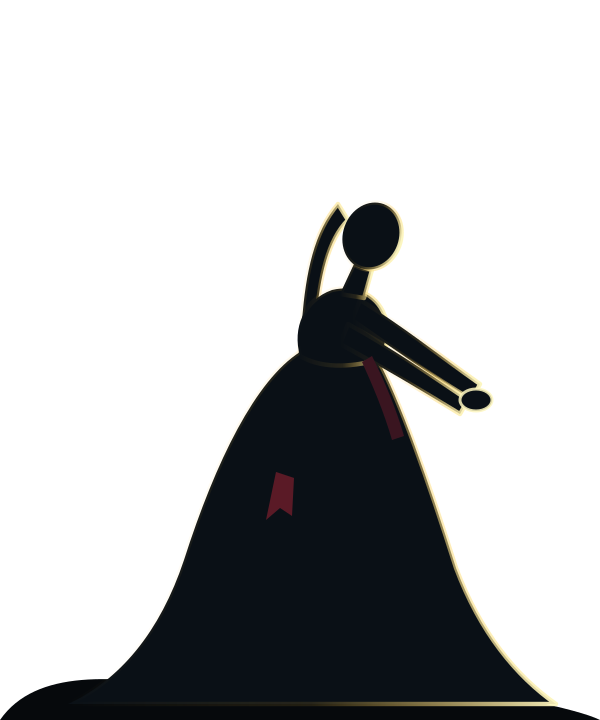
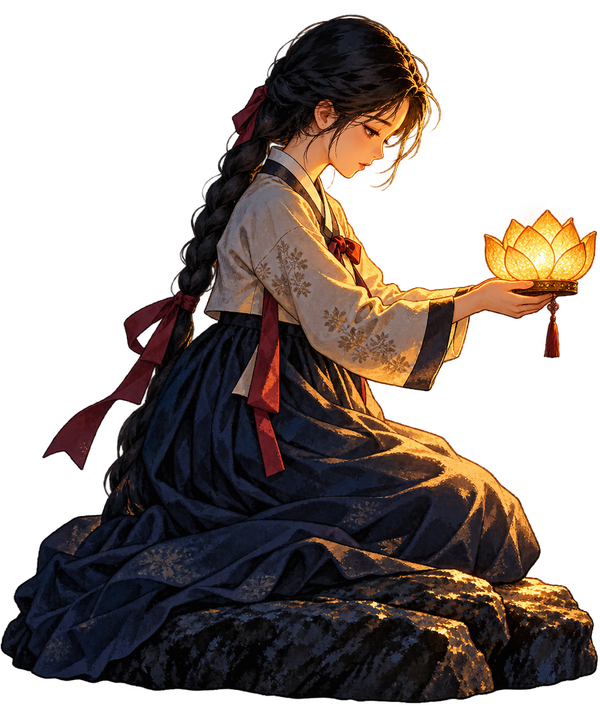
Defense: incense-ready effects and new cutscene art from Codex; boss HP 1400 -> 1800

diff --git a/prototype/defense.html b/prototype/defense.html
@@ -117,6 +117,9 @@
     .seedbar i { display: block; height: 100%; width: calc(var(--p, 0) * 100%); background: linear-gradient(90deg, var(--amber), var(--gold)); border-radius: inherit; transition: width .25s; }
     .roll.ready .seedbar i { background: linear-gradient(90deg, var(--gold), var(--wick)); box-shadow: 0 0 8px var(--gold); }
     .incense {
+      position: relative;
+      isolation: isolate;
+      overflow: visible;
       aspect-ratio: 1;
       border-radius: 999px;
       background:
@@ -129,9 +132,68 @@
       line-height: 1.2;
       text-align: center;
     }
-    .incense.full { box-shadow: 0 0 18px rgb(252 196 65 / .7); }
+    .incense.full {
+      box-shadow: 0 0 22px rgb(252 196 65 / .9);
+      animation: incense-ready-button 1.15s ease-in-out infinite alternate;
+    }
+    .incense.full::before {
+      content: '';
+      position: absolute;
+      inset: -38%;
+      z-index: 2;
+      pointer-events: none;
+      background:
+        url(/assets/incense_ready_frame.png) center / contain no-repeat,
+        url(/assets/fx_incense_ready_ring.png) center / 86% 86% no-repeat;
+      filter: drop-shadow(0 0 8px rgb(252 196 65 / .8));
+      animation: incense-ready-ring 1.8s ease-in-out infinite;
+    }
+    .incense.full::after {
+      content: '';
+      position: absolute;
+      left: -54%; right: -54%; bottom: -48%;
+      height: 230%;
+      z-index: 1;
+      pointer-events: none;
+      background: url(/assets/fx_incense_ready_sparks.png) center bottom / contain no-repeat;
+      animation: incense-ready-sparks 1.5s ease-out infinite;
+    }
+    @keyframes incense-ready-button { to { transform: scale(1.045); color: var(--wick); } }
+    @keyframes incense-ready-ring {
+      0% { opacity: .62; transform: scale(.9) rotate(-4deg); }
+      55% { opacity: 1; }
+      100% { opacity: .72; transform: scale(1.08) rotate(4deg); }
+    }
+    @keyframes incense-ready-sparks {
+      0% { opacity: 0; transform: translateY(7%) scale(.86); }
+      22%, 68% { opacity: .9; }
+      100% { opacity: 0; transform: translateY(-8%) scale(1.06); }
+    }
     .incense[aria-disabled='true'] { cursor: not-allowed; color: var(--mist); }
     .incense.full[aria-disabled='false'] { color: var(--gold); }
+    .incense-name { position: relative; z-index: 3; }
+    .incense-ready-label {
+      position: absolute;
+      left: 50%; top: -34%;
+      z-index: 4;
+      translate: -50% 0;
+      display: none;
+      width: max-content;
+      padding: .28em .62em;
+      border: 1px solid var(--gold);
+      border-radius: 999px;
+      background: rgb(4 5 6 / .92);
+      color: var(--wick);
+      font: 700 max(11px, calc(2.6 * var(--u)))/1 var(--font-title);
+      box-shadow: 0 0 12px rgb(252 196 65 / .55);
+    }
+    .incense.full .incense-ready-label { display: block; animation: incense-ready-label .8s ease-out both; }
+    @keyframes incense-ready-label { from { opacity: 0; transform: translateY(7px) scale(.88); } }
+    @media (prefers-reduced-motion: reduce) {
+      .incense.full, .incense.full::before, .incense.full::after, .incense.full .incense-ready-label { animation: none; }
+      .incense.full::before { opacity: .9; }
+      .incense.full::after { opacity: .55; }
+    }
 
     /* 물결 리본 */
     .ribbon {
@@ -290,31 +352,22 @@
       animation: kenburns 2.8s ease-out both;
     }
     @keyframes kenburns { from { transform: scale(1.18); filter: brightness(.5); } to { transform: scale(1.04); filter: brightness(.85); } }
-    /* 소녀·유등·빛을 한 묶음으로: 좌표는 소녀 그림 기준(두 손 = 폭 80%, 높이 55%) */
+    /* 소녀·유등·빛을 한 묶음으로: 새 그림 기준 유등 중심은 폭 88%, 높이 31% */
     .cut-actor {
-      position: absolute; left: 2%; bottom: 8%; height: 52%; aspect-ratio: 600 / 720;
+      position: absolute; left: -4%; bottom: 5%; height: 58%; aspect-ratio: 600 / 720;
       animation: girl 2.8s ease-out both;
     }
     @keyframes girl { from { opacity: 0; transform: translateX(-6%); } 18% { opacity: 1; transform: none; } }
     .cut-girl { width: 100%; height: 100%; max-width: none; }
     .cut-glow {
-      position: absolute; left: 80%; top: 55%; width: 140%; aspect-ratio: 1; translate: -50% -50%;
-      background: radial-gradient(circle, rgb(252 196 65 / .5), transparent 62%);
+      position: absolute; left: 88%; top: 31%; width: 48%; aspect-ratio: 1; translate: -50% -50%;
+      background:
+        url(/assets/fx_incense_ready_ring.png) center / contain no-repeat,
+        radial-gradient(circle, rgb(252 196 65 / .5), transparent 62%);
+      filter: drop-shadow(0 0 16px var(--gold));
       animation: glow 2.8s ease-in-out both;
     }
     @keyframes glow { 0% { opacity: 0; } 30%, 70% { opacity: 1; } 100% { opacity: .3; } }
-    .cut-lantern {
-      position: absolute; left: 80%; top: 55%; width: 30%; translate: -50% -62%;
-      filter: drop-shadow(0 0 14px var(--gold));
-      animation: drift 2.8s ease-in-out both;
-    }
-    /* 손을 떠나 강 한가운데로 멀어진다 */
-    @keyframes drift {
-      0%, 22% { transform: none; opacity: 0; }
-      30% { opacity: 1; transform: none; }
-      85% { transform: translate(260%, -300%) scale(.5); opacity: 1; }
-      100% { transform: translate(300%, -360%) scale(.4); opacity: 0; }
-    }
     .cut-line {
       position: absolute; left: 0; right: 0; top: 16%; z-index: 4;
       margin: 0; text-align: center;
@@ -401,7 +454,10 @@
 
     <aside class="side right">
       <div class="controls">
-        <button id="incense" class="dbtn incense" aria-disabled="true">향<br />피우기</button>
+        <button id="incense" class="dbtn incense" aria-disabled="true">
+          <span class="incense-name">향<br />피우기</span>
+          <span class="incense-ready-label" aria-hidden="true">준비 완료</span>
+        </button>
         <button id="roll" class="dbtn roll art" aria-disabled="true">
           <span class="roll-text">
             <b>주사위 굴림</b>
@@ -431,7 +487,6 @@
       <div class="cut-actor">
         <div class="cut-glow"></div>
         <img class="cut-girl" src="/assets/cut_girl.png" alt="" />
-        <img class="cut-lantern" src="/assets/d/comfort_idle1.webp" alt="" />
       </div>
       <p class="cut-line">안부를 띄웁니다</p>
       <div class="cut-flash"></div>

diff --git a/prototype/src/defense-data.ts b/prototype/src/defense-data.ts
@@ -20,7 +20,7 @@ export const CRIT = { chance: 0.15, mul: 2 };
 export const ENEMY: Record<EnemyType, { hp: number; speed: number; leak: number; seeds: number; incense: number; scale: number }> = {
   mist: { hp: 40, speed: 172, leak: 1, seeds: 4, incense: 0.08, scale: 0.62 },
   boat: { hp: 155, speed: 90, leak: 2, seeds: 9, incense: 0.08, scale: 0.62 },
-  boss: { hp: 1400, speed: 42, leak: 6, seeds: 40, incense: 0.2, scale: 1 },
+  boss: { hp: 1800, speed: 42, leak: 6, seeds: 40, incense: 0.2, scale: 1 },
 };
 
 /** 주사위는 자주 굴릴 수 있게: 비용 증가 폭을 작게, 처치 보상은 넉넉히 */

diff --git a/asset-register.md b/asset-register.md
@@ -28,9 +28,13 @@
 
 | 파일 | 게임 키 | 용도 | 제작 | 상태 |
 |---|---|---|---|---|
-| `assets/cut_girl_pray_v1.svg` | `cut_girl.png` | 향 피우기 컷신: 강가에 무릎 꿇고 유등을 띄우는 한복 소녀 역광 실루엣 | Claude가 SVG로 직접 제작 | 임시. 회화풍 교체용 프롬프트는 `디펜스게임.md` §14 |
+| `assets/cut_girl_pray_v1.svg` | - | 향 피우기 컷신의 초기 역광 실루엣 | Claude가 SVG로 직접 제작 | 보존용. v02 회화풍 컷아웃으로 교체 |
+| `assets/cut_girl_release_lantern_v02.png` | `cut_girl.png` | 강가에 무릎 꿇고 두 손으로 연꽃 유등을 띄우는 한복 소녀 컷신 | Built-in ImageGen | 투명 배경, 600×720 출력 |
+| `assets/ui_incense_ready_frame_v01.png` | `incense_ready_frame.png` | 향 게이지 100% 버튼의 황동·청록 장식 프레임 | Built-in ImageGen | 투명 배경, 텍스트 없음 |
+| `assets/fx_incense_ready_ring_v01.png` | `fx_incense_ready_ring.png` | 향 충전 완료 및 컷신용 금빛·청록 파동 링 | Built-in ImageGen | 투명 배경, 512×512 출력 |
+| `assets/fx_incense_ready_sparks_v01.png` | `fx_incense_ready_sparks.png` | 향 충전 완료 버튼 위로 피어나는 연무·불씨 FX | Built-in ImageGen | 투명 배경, 512×640 출력 |
 
-컷신 배경은 `bg_ending_jinju_fortress_intact`, 떠나가는 유등은 `unit_comfort_lantern_idle_01`을 재사용한다.
+컷신 배경은 `bg_ending_jinju_fortress_intact`를 재사용한다. v02 소녀 컷아웃에는 두 손과 연꽃 유등이 한 장에 포함되어 좌표가 어긋나지 않는다.
 
 ## 사운드 v1 (외부 무료 에셋, 전부 CC0)
 
